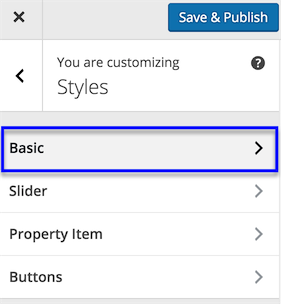
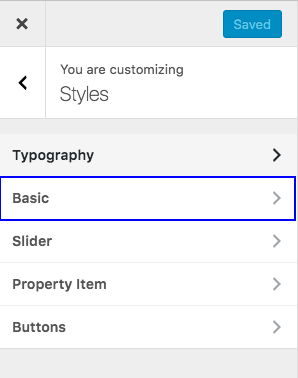
Added typography section

diff --git a/index.html b/index.html
@@ -32,7 +32,7 @@
 
                     <div class="title-area">
                         <h1 class="site-title">Real Homes</h1>
-                        <p class="site-description">By <a target="_blank" href="http://themeforest.net/user/InspiryThemes">Inspiry Themes</a></p>
+                        <p class="site-description">By <a target="_blank" href="http://inspirythemes.com/">Inspiry Themes</a></p>
                     </div>
 
                     <nav class="nav-main" id="nav">
@@ -223,6 +223,7 @@
                                 </a>
                                 <ul class="sub-menu">
                                     <li><a class="sub-menu-item" href="#modify-styles">Modify Styles</a></li>
+                                    <li><a class="sub-menu-item" href="#modify-typography">Modify Typography</a></li>
                                     <li><a class="sub-menu-item" href="#hire-customization">Hire Customization Services</a></li>
                                 </ul>
                             </li>
@@ -2536,6 +2537,29 @@
                             <hr>
                         </div>
                     </article>
+
+					<article class="hentry" id="inspiry-modify-typography">
+						<div class="entry-content">
+							<h2 class="entry-title">How to Modify Typography</h2>
+
+							<p>Real Homes themes comes with customizer settings to modify typography.</p>
+
+							<p>To explore relate settings, Navigate to <strong>Customize &gt; Styles &gt; Typography</strong> as guided in screenshots below.</p>
+
+							<div class="row">
+								<div class="col-lg-4">
+									<img class="light-border" src="assets/realhomes/modify-theme/typography-panel.png" alt=""/>
+								</div>
+								<div class="col-lg-4">
+									<img class="light-border" src="assets/realhomes/modify-theme/typography-section.png" alt=""/>
+								</div>
+								<div class="col-lg-4">
+									<img class="light-border" src="assets/realhomes/modify-theme/typography-settings.png" alt=""/>
+								</div>
+							</div>
+							<hr>
+						</div>
+					</article>
 
                     <article class="hentry" id="inspiry-hire-customization">
                         <div class="entry-content">
